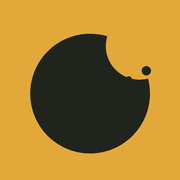
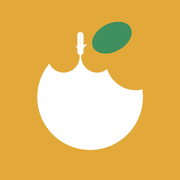
Fix real-device bugs and improve sharing/branding
- Fix [hidden] attribute being overridden by author CSS with equal
  specificity (.scan-row/.badge set display explicitly), which kept the
  offline badge and scan-sweep animation visibly stuck regardless of state.
- Clarify the confidence label wording.
- Add tap-to-reopen on logged meal rows to review a past analysis.
- Add an is_food flag to the vision tool schema so non-food photos return
  a clear error instead of a fabricated zero-value "meal".
- Replace the ambiguous bite-mark icon with a clearer apple+bite+leaf mark.
- Add an Open Graph share image and meta tags (with Essam's credit line)
  so links shared in WhatsApp show a large, branded preview card.

diff --git a/api/analyze.js b/api/analyze.js
@@ -2,20 +2,25 @@ var ANTHROPIC_URL = "https://api.anthropic.com/v1/messages";
 var MODEL = "claude-opus-5";
 
 var PROMPT_AR =
-  "انظر إلى صورة هذه الوجبة بعناية. حدّد اسم الطبق أو الوجبة بالعربية الفصحى بإيجاز، " +
-  "وقدّر السعرات الحرارية، والبروتين، والكربوهيدرات، والدهون بالجرام كأفضل تقدير ممكن " +
-  "كأعداد صحيحة. حدّد مستوى ثقتك بصدق (low أو medium أو high) حسب وضوح الصورة وقابلية " +
-  "التعرف على مكونات الوجبة. ثم اكتب نصيحة عملية قصيرة ومباشرة (جملة أو جملتين) خاصة بهذه " +
-  "الوجبة تحديداً بناءً على تركيبتها الغذائية — لا داعي للتحذيرات الطبية المبالغ فيها، فهذا " +
-  "معروف للمستخدم مسبقاً.";
+  "انظر إلى هذه الصورة بعناية. أولاً حدّد: هل تُظهر الصورة وجبة طعام حقيقية أو طبقاً " +
+  "يمكن تحليله غذائياً؟ إذا لم تكن الصورة لطعام على الإطلاق (مثل صورة لجهاز، أو مكان، أو " +
+  "شخص، أو أي شيء آخر لا عَلاقة له بالأكل)، اجعل is_food = false، واترك الحقول الرقمية " +
+  "صفراً، ولا تحاول اختلاق وجبة غير موجودة.\n\n" +
+  "إذا كانت الصورة تُظهر طعاماً فعلاً، اجعل is_food = true، ثم: حدّد اسم الطبق أو الوجبة " +
+  "بالعربية الفصحى بإيجاز، وقدّر السعرات الحرارية، والبروتين، والكربوهيدرات، والدهون " +
+  "بالجرام كأفضل تقدير ممكن كأعداد صحيحة. حدّد مستوى ثقتك بصدق (low أو medium أو high) " +
+  "حسب وضوح الصورة وقابلية التعرف على مكونات الوجبة. ثم اكتب نصيحة عملية قصيرة ومباشرة " +
+  "(جملة أو جملتين) خاصة بهذه الوجبة تحديداً بناءً على تركيبتها الغذائية — لا داعي " +
+  "للتحذيرات الطبية المبالغ فيها، فهذا معروف للمستخدم مسبقاً.";
 
 var TOOL = {
   name: "record_meal_analysis",
-  description: "سجّل نتيجة تحليل الوجبة الغذائية بصيغة منظمة",
+  description: "سجّل نتيجة تحليل الصورة بصيغة منظمة",
   strict: true,
   input_schema: {
     type: "object",
     properties: {
+      is_food: { type: "boolean", description: "هل تُظهر الصورة طعاماً يمكن تحليله؟" },
       dish_name_ar: { type: "string", description: "اسم الطبق أو الوجبة بالعربية الفصحى" },
       calories: { type: "integer" },
       protein_g: { type: "integer" },
@@ -24,7 +29,7 @@ var TOOL = {
       confidence: { type: "string", enum: ["low", "medium", "high"] },
       advice_ar: { type: "string", description: "نصيحة عملية قصيرة ومباشرة بالعربية الفصحى" }
     },
-    required: ["dish_name_ar", "calories", "protein_g", "carbs_g", "fat_g", "confidence", "advice_ar"],
+    required: ["is_food", "dish_name_ar", "calories", "protein_g", "carbs_g", "fat_g", "confidence", "advice_ar"],
     additionalProperties: false
   }
 };
@@ -119,6 +124,12 @@ module.exports = async function (req, res) {
   }
 
   var input = toolUse.input;
+
+  if (input.is_food === false) {
+    res.status(200).json({ ok: false, errorAr: "لم يتم التعرف على وجبة طعام في هذه الصورة. صوّر طبق الطعام بوضوح." });
+    return;
+  }
+
   res.status(200).json({
     ok: true,
     dishNameAr: input.dish_name_ar,

diff --git a/app.js b/app.js
@@ -130,7 +130,11 @@
   var summaryText = document.getElementById("summaryText");
   var summaryError = document.getElementById("summaryError");
 
-  var CONFIDENCE_LABEL = { high: "ثقة عالية", medium: "ثقة متوسطة", low: "ثقة منخفضة — تقدير تقريبي" };
+  var CONFIDENCE_LABEL = {
+    high: "مستوى ثقة لُقْمَة في دقة التحليل: عالية",
+    medium: "مستوى ثقة لُقْمَة في دقة التحليل: متوسطة",
+    low: "مستوى ثقة لُقْمَة في دقة التحليل: منخفضة — تقدير تقريبي فقط"
+  };
 
   var busy = false;
   var lastFile = null;
@@ -213,9 +217,7 @@
           thumbnail: thumbDataUrl
         };
 
-        renderResult(record);
-        scanRow.hidden = true;
-        result.hidden = false;
+        showResult(record);
 
         return addMeal(record).then(refreshLog);
       })
@@ -229,6 +231,20 @@
   }
 
   function pad(n) { return n < 10 ? "0" + n : String(n); }
+
+  function showResult(m) {
+    stage.hidden = false;
+    scanRow.hidden = true;
+    errorBox.hidden = true;
+    renderResult(m);
+    result.hidden = false;
+  }
+
+  function openMealDetail(m) {
+    lastFile = null;
+    showResult(m);
+    stage.scrollIntoView({ behavior: "smooth", block: "start" });
+  }
 
   function renderResult(m) {
     resultThumb.src = m.thumbnail;
@@ -313,6 +329,13 @@
   function buildMealRow(m) {
     var row = document.createElement("div");
     row.className = "meal-row";
+    row.tabIndex = 0;
+    row.setAttribute("role", "button");
+    row.setAttribute("aria-label", "عرض تفاصيل " + m.dishNameAr);
+    row.addEventListener("click", function () { openMealDetail(m); });
+    row.addEventListener("keydown", function (e) {
+      if (e.key === "Enter" || e.key === " ") { e.preventDefault(); openMealDetail(m); }
+    });
 
     var img = document.createElement("img");
     img.src = m.thumbnail;

diff --git a/index.html b/index.html
@@ -5,6 +5,19 @@
 <meta name="viewport" content="width=device-width, initial-scale=1, viewport-fit=cover" />
 <title>لُقْمَة</title>
 <meta name="description" content="صوّر وجبتك، واعرف ما فيها من سعرات وعناصر غذائية، مع نصيحة سريعة لكل وجبة." />
+
+<meta property="og:type" content="website" />
+<meta property="og:url" content="https://luqma-ten.vercel.app/" />
+<meta property="og:title" content="لُقْمَة" />
+<meta property="og:description" content="صوّر وجبتك، واعرف ما فيها من سعرات وعناصر غذائية، مع نصيحة سريعة لكل وجبة. من عصام بالتعاون مع كلود." />
+<meta property="og:image" content="https://luqma-ten.vercel.app/icons/og-image.png" />
+<meta property="og:image:width" content="1200" />
+<meta property="og:image:height" content="630" />
+<meta property="og:locale" content="ar_AR" />
+<meta name="twitter:card" content="summary_large_image" />
+<meta name="twitter:title" content="لُقْمَة" />
+<meta name="twitter:description" content="صوّر وجبتك، واعرف ما فيها من سعرات وعناصر غذائية، مع نصيحة سريعة لكل وجبة." />
+<meta name="twitter:image" content="https://luqma-ten.vercel.app/icons/og-image.png" />
 <meta name="theme-color" content="#f5f6f1" media="(prefers-color-scheme: light)" />
 <meta name="theme-color" content="#14160f" media="(prefers-color-scheme: dark)" />
 <meta name="apple-mobile-web-app-capable" content="yes" />

diff --git a/styles.css b/styles.css
@@ -40,6 +40,12 @@
 
 * { box-sizing: border-box; }
 
+/* Any element hidden via the `hidden` attribute must actually disappear, even
+   when a class on the same element also sets `display` (e.g. `.scan-row`,
+   `.badge`) — author rules of equal specificity otherwise beat the browser's
+   built-in [hidden] rule and the element stays visible. */
+[hidden] { display: none !important; }
+
 html, body {
   margin: 0;
   background: var(--bg);

diff --git a/make_og_image.py b/make_og_image.py
@@ -1,0 +1,90 @@
+import os
+from PIL import Image, ImageDraw, ImageFont
+import arabic_reshaper
+from bidi.algorithm import get_display
+
+BASE = os.path.dirname(os.path.abspath(__file__))
+FONTS = "C:/Windows/Fonts/"
+
+W, H = 1200, 630
+
+BG = (226, 169, 58)
+CARD = (255, 255, 255)
+INK = (32, 36, 29)
+INK_DIM = (91, 99, 85)
+LEAF = (63, 143, 95)
+
+
+def ar(text):
+    return get_display(arabic_reshaper.reshape(text))
+
+
+def font(path, size):
+    return ImageFont.truetype(os.path.join(FONTS, path), size)
+
+
+def draw_apple(img, cx, cy, r):
+    draw = ImageDraw.Draw(img)
+    draw.ellipse([cx - r, cy - r, cx + r, cy + r], fill=BG)
+
+    notch_r = int(r * 0.3)
+    draw.ellipse([cx - int(r*0.5) - notch_r, cy - r - int(r*0.07), cx - int(r*0.5) + notch_r, cy - r - int(r*0.07) + notch_r * 2], fill=CARD)
+    draw.ellipse([cx + int(r*0.13) - notch_r, cy - r - int(r*0.07), cx + int(r*0.13) + notch_r, cy - r - int(r*0.07) + notch_r * 2], fill=CARD)
+
+    bite_r = int(r * 0.57)
+    bcx, bcy = cx + r - int(r*0.13), cy - r + int(r*0.3)
+    draw.ellipse([bcx - bite_r, bcy - bite_r, bcx + bite_r, bcy + bite_r], fill=CARD)
+
+    stem_w, stem_h = int(r*0.11), int(r*0.43)
+    scx = cx - int(r*0.18)
+    stem_top = cy - r - int(r*0.23)
+    draw.rounded_rectangle([scx - stem_w // 2, stem_top, scx + stem_w // 2, stem_top + stem_h], radius=stem_w // 2, fill=BG)
+
+    leaf_w, leaf_h = int(r*0.8), int(r*0.53)
+    leaf = Image.new("RGBA", (leaf_w, leaf_h), (0, 0, 0, 0))
+    ld = ImageDraw.Draw(leaf)
+    ld.ellipse([0, 0, leaf_w, leaf_h], fill=LEAF)
+    leaf = leaf.rotate(28, expand=True, resample=Image.BICUBIC)
+    img.paste(leaf, (int(cx - r*0.07), int(stem_top - r*0.32)), leaf)
+
+
+def build():
+    img = Image.new("RGB", (W, H), BG)
+
+    margin = 36
+    card = Image.new("RGB", (W - margin * 2, H - margin * 2), CARD)
+    img.paste(card, (margin, margin))
+    draw = ImageDraw.Draw(img)
+
+    # apple mark, top-right area (RTL "start" side)
+    draw_apple(img, W - margin - 150, margin + 160, 110)
+
+    title_font = font("tahomabd.ttf", 108)
+    tagline_font = font("tahoma.ttf", 42)
+    credit_font = font("tahomabd.ttf", 34)
+
+    title = ar("لُقْمَة")
+    tagline = ar("صوّر وجبتك، واعرف ما فيها من سعرات وعناصر غذائية")
+    credit = ar("من عصام بالتعاون مع كلود")
+
+    right_edge = W - margin - 80
+
+    tb = draw.textbbox((0, 0), title, font=title_font)
+    draw.text((right_edge - (tb[2] - tb[0]), 250), title, font=title_font, fill=INK)
+
+    tb2 = draw.textbbox((0, 0), tagline, font=tagline_font)
+    draw.text((right_edge - (tb2[2] - tb2[0]), 400), tagline, font=tagline_font, fill=INK_DIM)
+
+    tb3 = draw.textbbox((0, 0), credit, font=credit_font)
+    pad_x, pad_y = 28, 16
+    bw, bh = (tb3[2] - tb3[0]) + pad_x * 2, (tb3[3] - tb3[1]) + pad_y * 2
+    bx1 = right_edge - bw
+    by1 = 480
+    draw.rounded_rectangle([bx1, by1, bx1 + bw, by1 + bh], radius=bh // 2, fill=BG)
+    draw.text((bx1 + pad_x, by1 + pad_y - tb3[1]), credit, font=credit_font, fill=(255, 255, 255))
+
+    img.save(os.path.join(BASE, "icons", "og-image.png"), quality=92)
+    print("saved og-image.png", img.size)
+
+
+build()

diff --git a/make_icons.py b/make_icons.py
@@ -5,9 +5,9 @@ BASE = os.path.dirname(os.path.abspath(__file__))
 OUT = os.path.join(BASE, "icons")
 os.makedirs(OUT, exist_ok=True)
 
-BG = (226, 169, 58, 255)      # accent amber
-MARK = (32, 36, 29, 255)      # deep ink
-CRUMB = (32, 36, 29, 255)
+BG = (226, 169, 58, 255)       # brand amber
+WHITE = (255, 255, 255, 255)
+LEAF = (63, 143, 95, 255)      # brand "good" green, for the leaf only
 
 SIZE = 1024
 
@@ -16,22 +16,35 @@ def draw_master():
     img = Image.new("RGBA", (SIZE, SIZE), BG)
     draw = ImageDraw.Draw(img)
 
-    cx, cy = SIZE // 2, SIZE // 2 + 20
-    r = 340
+    cx, cy = SIZE // 2, SIZE // 2 + 40
+    r = 300
 
-    # main "morsel" circle
-    draw.ellipse([cx - r, cy - r, cx + r, cy + r], fill=MARK)
+    # apple body — a plain circle read clearly at any size
+    draw.ellipse([cx - r, cy - r, cx + r, cy + r], fill=WHITE)
 
-    # bite taken out (upper-right), cut with background color
-    bite_r = 190
-    bcx = cx + r - 60
-    bcy = cy - r + 70
+    # top "dip" notch (two small cut circles either side of the stem)
+    notch_r = 90
+    draw.ellipse([cx - 150 - notch_r, cy - r - 20, cx - 150 + notch_r, cy - r - 20 + notch_r * 2], fill=BG)
+    draw.ellipse([cx + 40 - notch_r, cy - r - 20, cx + 40 + notch_r, cy - r - 20 + notch_r * 2], fill=BG)
+
+    # bite taken out of the upper-right — the single most important shape,
+    # this is what makes it read as "a bite of food" rather than a fruit icon alone
+    bite_r = 170
+    bcx, bcy = cx + r - 40, cy - r + 90
     draw.ellipse([bcx - bite_r, bcy - bite_r, bcx + bite_r, bcy + bite_r], fill=BG)
 
-    # a couple of crumbs near the bite
-    for (dx, dy, rr) in [(40, 140, 26), (-60, 190, 18)]:
-        px, py = bcx + dx, bcy + dy
-        draw.ellipse([px - rr, py - rr, px + rr, py + rr], fill=CRUMB)
+    # stem
+    stem_w, stem_h = 34, 130
+    scx = cx - 55
+    stem_top = cy - r - 70
+    draw.rounded_rectangle([scx - stem_w // 2, stem_top, scx + stem_w // 2, stem_top + stem_h], radius=16, fill=WHITE)
+
+    # leaf, tilted
+    leaf = Image.new("RGBA", (240, 160), (0, 0, 0, 0))
+    ld = ImageDraw.Draw(leaf)
+    ld.ellipse([0, 0, 240, 160], fill=LEAF)
+    leaf = leaf.rotate(28, expand=True, resample=Image.BICUBIC)
+    img.paste(leaf, (int(cx - 20), int(stem_top - 95)), leaf)
 
     return img
 
@@ -46,12 +59,10 @@ def flatten_on_opaque(img, bg_color):
 
 master = draw_master()
 
-# Standard PWA icons (can keep alpha channel, though our bg is opaque anyway)
 master.resize((512, 512), Image.LANCZOS).save(os.path.join(OUT, "icon-512.png"))
 master.resize((192, 192), Image.LANCZOS).save(os.path.join(OUT, "icon-192.png"))
 
-# Apple touch icon: must be fully opaque (iOS renders any transparency as black)
-apple = flatten_on_opaque(master, (226, 169, 58))
-apple.resize((180, 180), Image.LANCZOS).save(os.path.join(OUT, "apple-touch-icon.png"))
+apple_icon = flatten_on_opaque(master, (226, 169, 58))
+apple_icon.resize((180, 180), Image.LANCZOS).save(os.path.join(OUT, "apple-touch-icon.png"))
 
 print("done")
